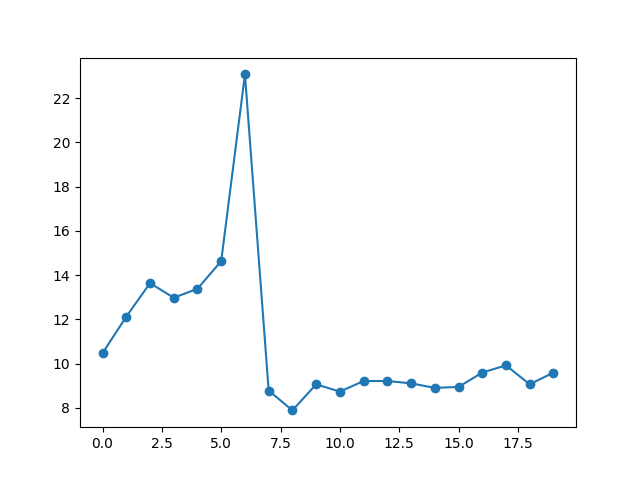
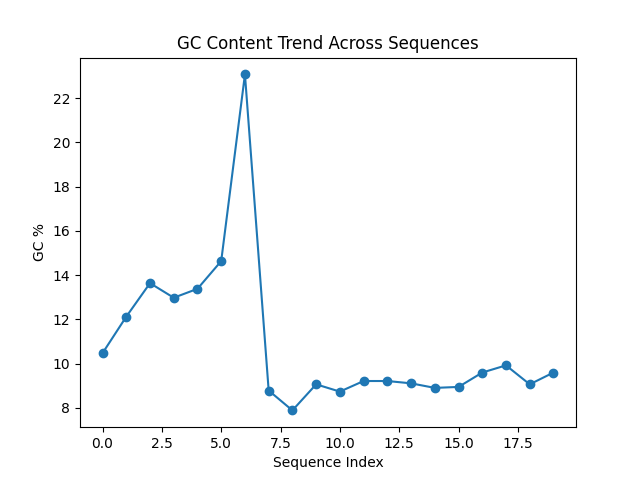
Update Streamlit FASTA Analyzer: add Protein_Name in PDF report, UI fixes

Changed region(s): [[0.2812, 0.0625, 0.75, 0.125], [0.4375, 0.9375, 0.5938, 1.0], [0.0312, 0.4688, 0.0625, 0.5312]]

diff --git a/app.py b/app.py
@@ -7,11 +7,11 @@ from fpdf import FPDF
 
 
 st.sidebar.title("🧬 FASTA Analyzer")
-st.sidebar.markdown("### Navigation")
+st.sidebar.markdown("### Dashboard Menu")
 
 section = st.sidebar.radio(
     "Go to",
-    ["Upload & Overview", "Detailed Analysis", "Export Report"]
+    ["📤 Upload & Overview", "📊 Detailed Analysis", "🧾Export Report", "ℹ️About Us"]
 )
 
 # --- Helper Functions ---
@@ -38,57 +38,132 @@ def create_report(data, filename="report.pdf"):
 
 
 
-# --- logo ---
+# --- CSS ---
+
+
+# --- Hide Streamlit default header & footer ---
+hide_streamlit_style = """
+    <style>
+    #MainMenu {visibility: hidden;}     /* Hamburger menu */
+    header {visibility: hidden;}        /* Top header */
+    footer {visibility: hidden;}        /* Footer */
+    </style>
+"""
+st.markdown(hide_streamlit_style, unsafe_allow_html=True)
+
+st.markdown("""
+<style>
+@import url('https://fonts.googleapis.com/css2?family=Inter:wght@300;400;600&family=Space+Grotesk:wght@500;700&display=swap');
+""", unsafe_allow_html=True)
+
+
+st.markdown("""
+<style>
+
+/* Import fonts */
+@import url('https://fonts.googleapis.com/css2?family=Inter:wght@300;400;600&family=Space+Grotesk:wght@500;700&display=swap');
+
+/* Global font */
+html, body, [class*="css"] {
+    font-family: 'Inter', sans-serif;
+}
+
+/* MAIN TITLE (FASTA Analyzer) */
+h1 {
+    font-family: 'Space Grotesk', sans-serif;
+    font-weight: 700;
+    letter-spacing: 0.5px;
+}
+
+/* Subheaders */
+h2, h3 {
+    font-family: 'Inter', sans-serif;
+    font-weight: 600;
+}
+
+/* Sidebar text */
+[data-testid="stSidebar"] {
+    font-family: 'Inter', sans-serif;
+}
+
+</style>
+""", unsafe_allow_html=True)
 
 
 
 st.markdown("""
 <style>
-body {
-    background-color: #0b0f19 !important;
+
+/* Main App Background */
+[data-testid="stAppViewContainer"] {
+    background-color: #0b0f19;
 }
 
-.block-container {
-    padding: 2rem 3rem;
+/* Sidebar */
+[data-testid="stSidebar"] {
+    background-color: #111827;
 }
 
+/* Titles */
 h1, h2, h3 {
+    color: #ffffff;
     font-weight: 600;
 }
 
+/* Buttons */
+button {
+    border-radius: 8px !important;
+    background: linear-gradient(90deg, #2563eb, #1e40af) !important;
+    color: white !important;
+    font-weight: 600 !important;
+}
+
+/* Metrics Cards */
 [data-testid="stMetric"] {
-    background-color: #111827 !important;
+    background-color: #111827;
     padding: 15px;
     border-radius: 12px;
     text-align: center;
 }
 
-.stButton>button {
-    border-radius: 8px;
-    background: linear-gradient(90deg, #2563eb, #1e40af);
-    color: white !important;
-    font-weight: 600;
+/* Dataframe */
+[data-testid="stDataFrame"] {
+    border-radius: 10px;
 }
 
-.stDownloadButton>button {
-    border-radius: 8px;
-    background: #1e293b;
-    color: white !important;
+/* Section spacing */
+.block-container {
+    padding-top: 2rem;
+    padding-left: 3rem;
+    padding-right: 3rem;
 }
 
+/* Divider */
 hr {
     border: 1px solid #1f2937;
 }
+
+/* Footer */
+footer {
+    visibility: hidden;
+}
+
 </style>
 """, unsafe_allow_html=True)
 
 
 
 
-# --- Streamlit UI ---
-if section == "Upload & Overview":
 
-    st.title("🧬FASTA Analyzer")
+
+# --- Streamlit UI ---
+if section == "📤 Upload & Overview":
+
+    st.markdown("""
+    <h1 style='font-family: Space Grotesk;'>
+    🧬 FASTA Analyzer
+    </h1>
+    """, unsafe_allow_html=True)
     st.caption("📤Upload and analyze genomic sequences instantly")
 
     uploaded_file = st.file_uploader("Upload FASTA file", type=["fasta"])
@@ -98,14 +173,26 @@ if section == "Upload & Overview":
             records = read_fasta(uploaded_file)
 
             data = pd.DataFrame({
+                "Protein_Name": [rec.description for rec in records],
                 "ID": [rec.id for rec in records],
                 "Length": [len(rec.seq) for rec in records],
                 "GC_Content": [gc_content(rec.seq) for rec in records]
             })
 
         st.session_state["data"] = data
+        st.dataframe(data)
 
         st.success("Analysis completed!")
+
+
+        # --- CSV Download Button ---
+        csv = data.to_csv(index=False).encode("utf-8")
+        st.download_button(
+            label="📥 Download CSV",
+            data=csv,
+            file_name="FASTA_Analysis.csv",
+            mime="text/csv"
+        )
 
         # --- METRICS ---
         col1, col2, col3 = st.columns(3)
@@ -114,7 +201,7 @@ if section == "Upload & Overview":
         col3.metric("Avg GC%", round(data["GC_Content"].mean(), 2))
 
 
-elif section == "Detailed Analysis":
+elif section == "📊 Detailed Analysis":
 
     st.title("📊Detailed Analysis")
 
@@ -131,6 +218,9 @@ elif section == "Detailed Analysis":
             st.subheader("📊GC Distribution")
             fig1, ax = plt.subplots()
             ax.hist(data["GC_Content"], bins=10)
+            ax.set_title("GC Content Distribution")
+            ax.set_xlabel("GC%")
+            ax.set_ylabel("Frequency")
 
             st.pyplot(fig1)
 
@@ -140,7 +230,10 @@ elif section == "Detailed Analysis":
 
         with col2:
             st.subheader("📊GC Comparison")
-            fig2, ax = plt.subplots(figsize = (10, 6.45))
+            fig2, ax = plt.subplots(figsize = (10, 5.8))
+            ax.set_title("GC Content Comparison Across Multiple FASTA Files")
+            ax.set_xlabel("Gene")
+            ax.set_ylabel("GC Content (%)")
             ax.bar(data["ID"], data["GC_Content"])
             plt.xticks(rotation=60)
             st.pyplot(fig2)
@@ -152,6 +245,9 @@ elif section == "Detailed Analysis":
         st.subheader("📈GC Trend")
         fig3, ax = plt.subplots()
         ax.plot(data["GC_Content"], marker='o')
+        ax.set_title("GC Content Trend Across Sequences")
+        ax.set_xlabel("Sequence Index")
+        ax.set_ylabel("GC %")
         st.pyplot(fig3)
 
         fig3.savefig("gc_trend.png")
@@ -159,21 +255,95 @@ elif section == "Detailed Analysis":
             st.download_button("📥Download Chart", f, "gc_trend.png")
 
 
-elif section == "Export Report":
+        # --- New Section: Additional Plots ---
+        st.subheader("📊Additional GC Content Analysis")
 
-    st.title("📤Export Report")
+        fig4, axs = plt.subplots(2, 2, figsize=(14,10))
+
+        # Top-left: GC Content (%) per gene
+        axs[0,0].bar(data["ID"], data["GC_Content"])
+        axs[0,0].set_title("GC Content (%)")
+        axs[0,0].set_ylabel("GC %")
+        axs[0,0].tick_params(axis='x', rotation=60)
+
+        # Top-right: Gene Length
+        axs[0,1].bar(data["ID"], data["Length"])
+        axs[0,1].set_title("Gene Length")
+        axs[0,1].set_ylabel("Length")
+        axs[0,1].tick_params(axis='x', rotation=60)
+
+        # Bottom-left: GC Content Distribution
+        axs[1,0].hist(data["GC_Content"], bins=10)
+        axs[1,0].set_title("GC Content Distribution")
+        axs[1,0].set_xlabel("GC %")
+        axs[1,0].set_ylabel("Frequency")
+
+        # Bottom-right: GC Content Spread (Boxplot)
+        axs[1,1].boxplot(data["GC_Content"], patch_artist=True, boxprops=dict())
+        axs[1,1].set_title("GC Content Spread")
+        axs[1,1].set_ylabel("GC %")
+
+        plt.tight_layout()
+        st.pyplot(fig4)
+
+        fig4.savefig("additional_plots.png")
+        with open("additional_plots.png", "rb") as f:
+            st.download_button("📥Download Chart", f, "additional_plots.png")
+
+
+elif section == "🧾Export Report":
+
+    st.title("🧾Export Report")
 
     if "data" not in st.session_state:
         st.warning("No data available. Upload file first.")
     else:
         data = st.session_state["data"]
 
-        if st.button("🔄Generate PDF"):
+        if st.button("Generate PDF"):
             create_report(data)
-            st.success("✅Report generated!")
+            st.success("Report generated!")
 
             with open("report.pdf", "rb") as f:
-                st.download_button("🧾Download PDF", f, "FASTA_Report.pdf")
+                st.download_button("Download PDF", f, "FASTA_Report.pdf")
+
+
+
+
+
+
+
+
+
+elif section == "ℹ️About Us":
+
+    # --- New Section: About Biocode Innovators ---
+    st.markdown("---")  # separator line
+
+    st.header("About Biocode Innovators")
+
+    st.markdown("""
+    **Biocode Innovators** bridges the gap between biology and computational technology.  
+    We provide hands-on training, workshops, and resources for students, researchers, and professionals in bioinformatics, genomics, and data-driven life sciences.  
+
+    **Founded by:** Abeera Iftikhar  
+    **Mission:** Make biological data accessible, understandable, and actionable.  
+    **Slogan:**  *Let's decode biology together!*  
+
+    **Areas of Focus:**
+    - Computational Biology  
+    - Data Analysis  
+    - Biological Data Visualization  
+    - In-silico Analysis  
+    - Python for Biology  
+    - R for Biology  
+
+    **Industry:** E-Learning Providers  
+    **Company Size:** 2–10 employees (4 associated members)  
+    **Founded:** 2025  
+    **Phone:** [phone redacted]  
+    """)
+
 
 
 